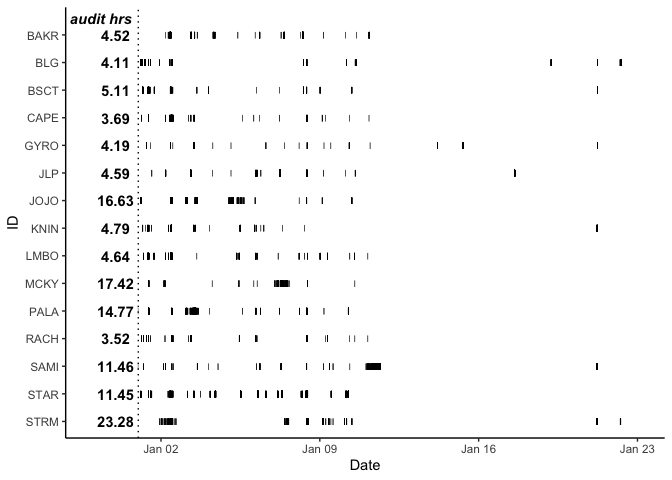
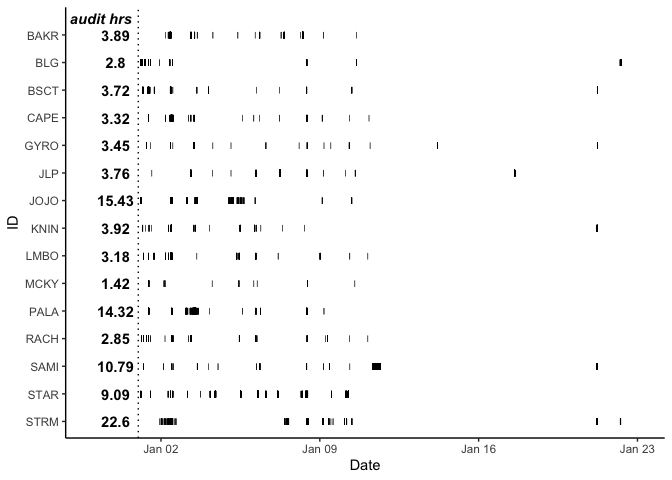
fix typos, update summary

diff --git a/README.md b/README.md
@@ -1,9 +1,10 @@
 # Hyena cc23 labeling status
-Last updated on October 17, 2024
+
+Last updated on January 31, 2025
 
 ### Current state
 
-There are 6.53 hours of calls in 134.17 hours of total audit time.
+There are 4.97 hours of calls in 104.54 hours of total audit time.
 
 ### Labels by date and id
 
@@ -15,38 +16,20 @@ There are 6.53 hours of calls in 134.17 hours of total audit time.
 
 | call | total_count |  foc |  non | unf | total_duration | total_inds | total_audits |
 |:-----|------------:|-----:|-----:|----:|---------------:|-----------:|-------------:|
-| whp  |        3633 | 1339 | 2263 |  28 |        5183.45 |         15 |          173 |
-| grn  |        4364 | 3154 | 1051 | 153 |        5134.66 |         15 |          170 |
-| gig  |         897 |  130 |  668 |  96 |        1003.97 |         15 |           95 |
-| rum  |         766 |  514 |  230 |  23 |        1102.63 |         15 |           70 |
-| sql  |        1536 |  130 | 1274 | 128 |        1423.44 |         15 |           95 |
-| gwl  |         328 |   70 |  238 |  20 |         327.51 |         13 |           37 |
-| fed  |         576 |  552 |    2 |  12 |        6418.35 |         11 |           19 |
-| str  |         983 |    0 |  977 |   0 |        1107.78 |         15 |           90 |
-| oth  |        3040 |  577 | 2115 | 335 |        1376.05 |         15 |          193 |
-| fus  |          73 |   27 |   41 |   5 |         115.42 |         12 |           31 |
-| seq  |         132 |   44 |   76 |  12 |         252.09 |         15 |           42 |
-| unk  |         457 |    4 |   74 |   5 |         302.59 |         14 |          103 |
-| syn  |          10 |    0 |    0 |   0 |           3.08 |          3 |            3 |
+| whp  |        2332 |  885 | 1442 |   4 |        3299.82 |         15 |          119 |
+| grn  |        3407 | 2507 |  783 | 117 |        3695.45 |         15 |          116 |
+| gig  |         694 |  101 |  514 |  78 |         780.64 |         15 |           70 |
+| rum  |         676 |  467 |  187 |  22 |         962.63 |         15 |           50 |
+| sql  |        1158 |   63 | 1011 |  83 |        1048.88 |         15 |           68 |
+| gwl  |         258 |   32 |  210 |  16 |         242.38 |         12 |           26 |
+| fed  |         497 |  473 |    2 |  12 |        5661.06 |         10 |           18 |
+| str  |         786 |    0 |  784 |   0 |         905.73 |         15 |           60 |
+| oth  |        2570 |  472 | 1804 | 288 |        1113.58 |         15 |          139 |
+| fus  |          61 |   21 |   39 |   1 |          93.10 |         11 |           25 |
+| seq  |         105 |   33 |   62 |  10 |         204.46 |         14 |           34 |
+| unk  |         320 |    3 |   62 |   5 |         186.52 |         14 |           80 |
+| syn  |           2 |    0 |    0 |   0 |           1.08 |          2 |            2 |
 
 ### Start and end of audit issues
 
 These audits have issues with start and end of audit:
-
-| audit | issue                        |
-|:------|:-----------------------------|
-| 348   | audit not bounded by soa/eoa |
-| 414   | audit not bounded by soa/eoa |
-| 330   | audit not bounded by soa/eoa |
-| 376   | audit not bounded by soa/eoa |
-| 34    | audit not bounded by soa/eoa |
-| 377   | audit not bounded by soa/eoa |
-| 396   | audit not bounded by soa/eoa |
-| 334   | too many soa and eoa         |
-| 9     | audit not bounded by soa/eoa |
-| 372   | audit not bounded by soa/eoa |
-| 440   | audit not bounded by soa/eoa |
-| 66    | audit not bounded by soa/eoa |
-| 42    | audit not bounded by soa/eoa |
-| 60    | audit not bounded by soa/eoa |
-| 19    | audit not bounded by soa/eoa |
